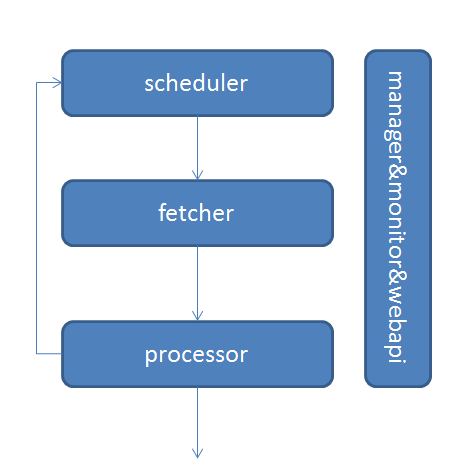
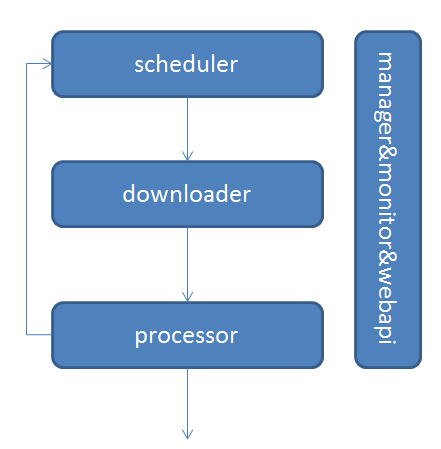
sasila

diff --git a/README.md b/README.md
@@ -2,11 +2,12 @@
 
 &emsp;&emsp;在爬虫工作中，我接触过较多的爬虫框架，比如[**scrapy**](https://github.com/scrapy/scrapy)、[**webmagic**](https://github.com/code4craft/webmagic)、[**pyspider**](https://github.com/binux/pyspider)，也经常直接通过[**requests**](https://github.com/requests/requests)+[**beautifulsoup**](https://github.com/il-vladislav/BeautifulSoup4)来写一些个性化的小型爬虫脚本。但是在实际爬取过程当中，仍然不能完全满足实际需要。所以我开发了这套**小型的**、**灵活的**、**功能完善的**爬虫框架。
 
-![jichu](https://github.com/DarkSand/Sasila/blob/master/pic/jigou.png)
+![jiagou](https://github.com/DarkSand/Sasila/blob/master/pic/jigou.png)
 
 ## **主要特点**
 
 * 框架代码结构简单易用，易于修改。
+* 采用gevent实现并发操作，与scrapy的twisted相比，代码更容易理解。
 * 完全模块化的设计，强大的可扩展性。
 * 使用方式和结构参考了[**scrapy**](https://github.com/scrapy/scrapy)和[**webmagic**](https://github.com/code4craft/webmagic)。对有接触过这两个框架的朋友非常友好。
 * 对数据的解析模块并没有集成，可以自由使用[**beautifulsoup**](https://github.com/il-vladislav/BeautifulSoup4)、[**lxml**](https://github.com/lxml/lxml)、[**pyquery**](https://github.com/gawel/pyquery)、[**html5lib**](https://github.com/html5lib/html5lib-python)等等各种解析器进行数据抽取。
@@ -15,5 +16,91 @@
 * 支持分布式。
 * 支持增量爬取。
 * 支持爬取js动态渲染的页面。
-* 提供http接口对爬虫进行管理、监控。
+* 提供webapi对爬虫进行管理、监控。
 * 提供即时爬虫的集成思路和结构。
+
+## **安装**
+```
+pip install sasila
+```
+
+## **构建processor(解析器)**
+```python
+#!/usr/bin/env python
+# -*- coding: utf-8 -*-
+from bs4 import BeautifulSoup as bs
+from base_processor import BaseProcessor
+from sasila.slow_system.downloader.http.spider_request import Request
+from sasila.slow_system.core.request_spider import RequestSpider
+
+class Mzi_Processor(BaseProcessor):
+    spider_id = 'mzi_spider'
+    spider_name = 'mzi_spider'
+    allowed_domains = ['mzitu.com']
+    start_requests = [Request(url='http://www.mzitu.com/', priority=0)]
+
+    @checkResponse
+    def process(self, response):
+        soup = bs(response.m_response.content, 'lxml')
+        print soup.title.string
+        href_list = soup.select('a')
+        for href in href_list:
+            yield Request(url=response.nice_join(href['href']))
+```
+写法与scrapy几乎一样
+
+* 所有的解析器都继承自BaseProcessor，默认入口解析函数为def process(self, response)。
+* 为该解析器设置spider_id和spider_name,以及限定域名。
+* 初始爬取请求为start_requests，构建Request对象，该对象支持GET、POST方法，支持优先级，设置回调函数等等所有构建request对象的一切属性。默认回调函数为*process*。
+* 解析函数因为使用yield关键字，所以是一个生成器。当yield返回Request对象，则会将Request对象推入调度器等待调度继续进行爬取。若yield不是返回Request对象则会进入*pipeline*，*pipeline*将对数据进行清洗入库等操作。
+
+## **构建pipeline**
+```python
+from sasila.slow_system.pipeline.base_pipeline import ItemPipeline
+
+class ConsolePipeline(ItemPipeline):
+    def process_item(self, item):
+        print json.dumps(item).decode("unicode-escape")
+```
+## **构建spider(爬虫对象）**
+* 通过注入*processor*生成spider对象
+```python
+from sasila.slow_system.core.request_spider import RequestSpider
+
+spider = RequestSpider(Mzi_Processor())
+```
+* RequestSpider对象包含批下载数量*batch_size*，下载间隔*time_sleep*，使用代理*use_proxy*等一切必要的属性
+```python
+RequestSpider(processor=None, downloader=None, use_proxy=False,scheduler=None,batch_size=None,time_sleep=None)
+```
+* RequestSpider已经默认设置好了*downloader*和*scheduler*，如果不满意，可以自己进行定制。
+* 可以为spider设置*downloader*和*pipeline*甚至*scheduler*
+```python
+ spider = spider.set_pipeline(ConsolePipeline())
+```
+* 可以通过该方式启动爬虫
+```python
+spider.start()
+```
+* 也可以将spider注入*manager*进行管理
+```python
+from sasila.slow_system.manager import manager
+
+manager.set_spider(spider)
+
+sasila.start()
+```
+
+>访问 http://127.0.0.1:5000/slow_spider/start?spider_id=mzi_spider 来启动爬虫。
+>访问 http://127.0.0.1:5000/slow_spider/stop?spider_id=mzi_spider 来停止爬虫。
+>访问 http://127.0.0.1:5000/slow_spider/detail?spider_id=mzi_spider 来查看爬虫详细信息。
+
+## **架构**
+![jichu](https://github.com/DarkSand/Sasila/blob/master/pic/jichu.png)
+
+* 任务由 scheduler 发起调度，fetcher 抓取网页内容， processor 执行预先编写的py脚本，输出结果或产生新的提链任务（发往 scheduler），形成闭环。
+* 每个脚本被认为是一个spider，spiderid确定一个任务。
+* downloader
+1. method, header, cookie, proxy,timeout 等等抓取调度控制。
+2. 可以通过适配类似 phantomjs 的webkit引擎支持渲染。
+3. 流量控制
